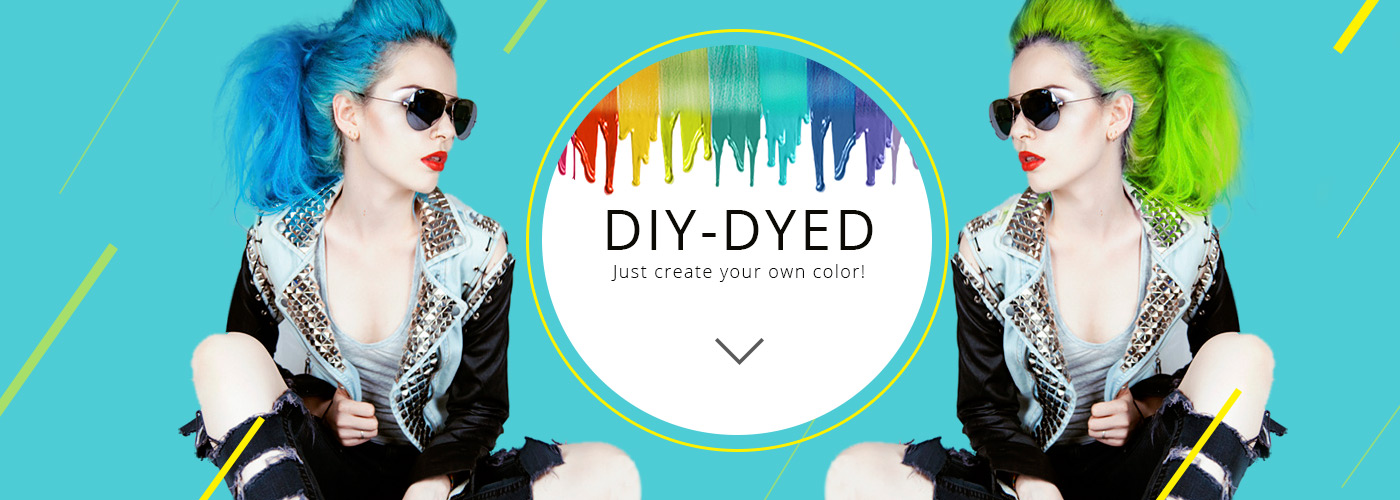
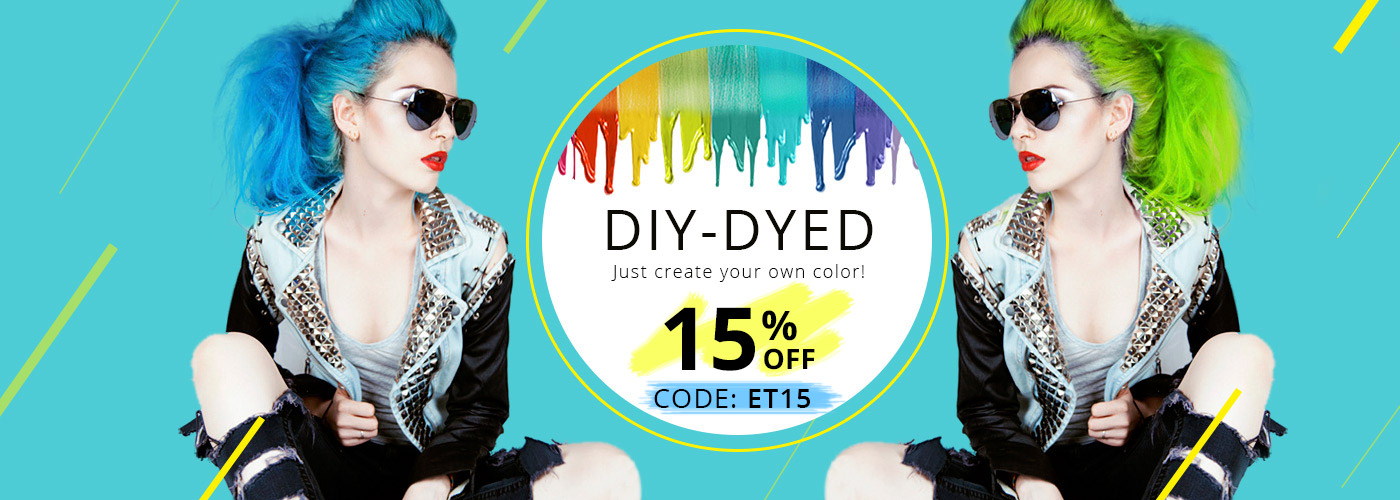
夏季活动

Changed region(s): [[0.43, 0.57, 0.6143, 0.84]]

diff --git a/themes/uniwigs2016/js/index.js b/themes/uniwigs2016/js/index.js
@@ -36,3 +36,19 @@ window.after_load_home_customer_shows = function() {
 		hideControlOnEnd: true
 	});
 };
+$(document).ready(function(){
+  	$('#summer-color-img').bxSlider({
+  		mode:'fade',
+		useCSS: true,
+		maxSlides: 1,
+		slideWidth: 567,
+		infiniteLoop: true,
+		hideControlOnEnd: true,
+		pager: false,
+		autoHover: false,
+		auto: true,
+		speed: parseInt(1),
+		pause: 2000,
+		controls: false,
+	});
+})
